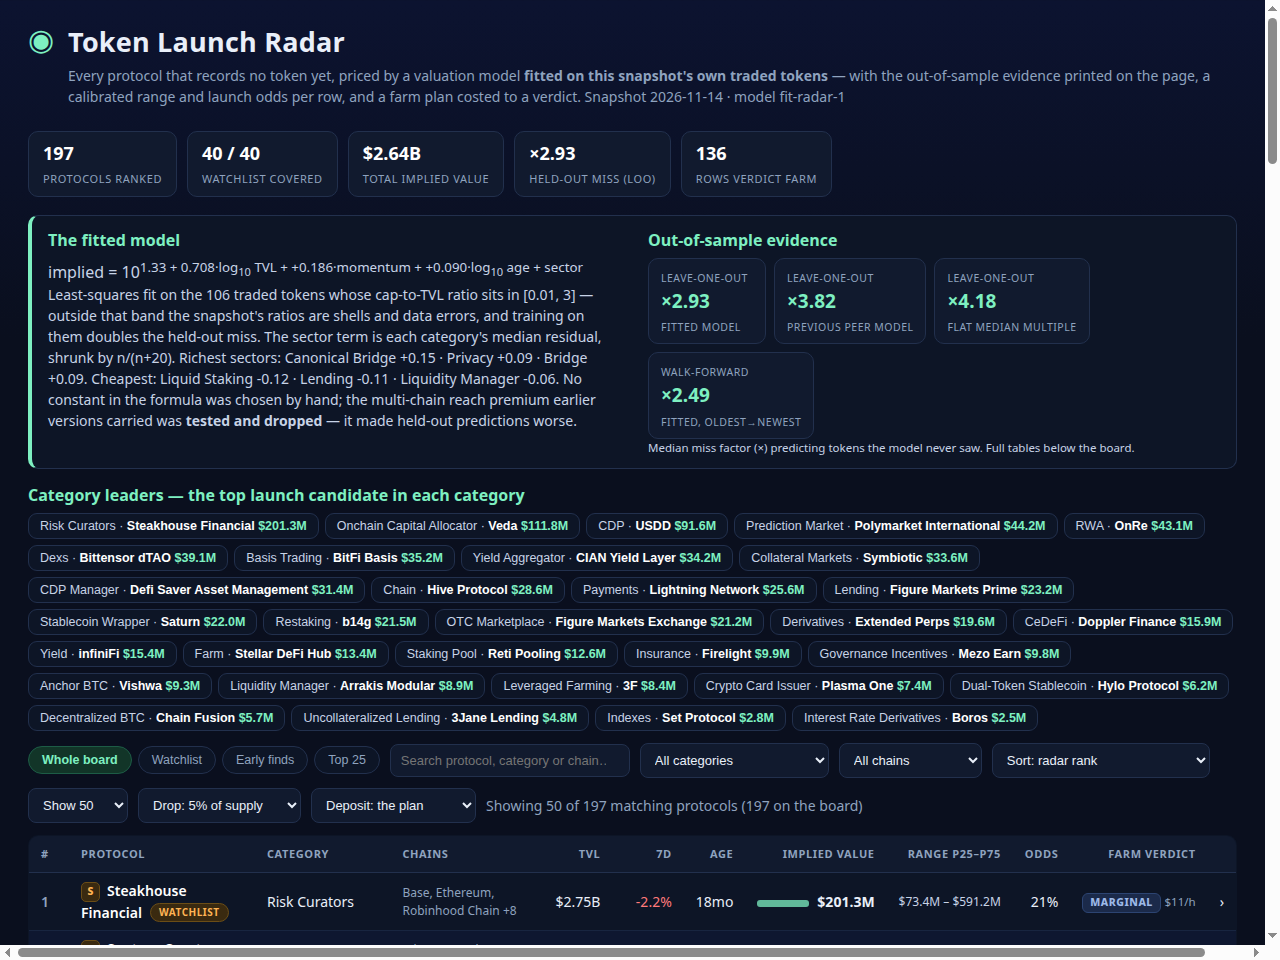
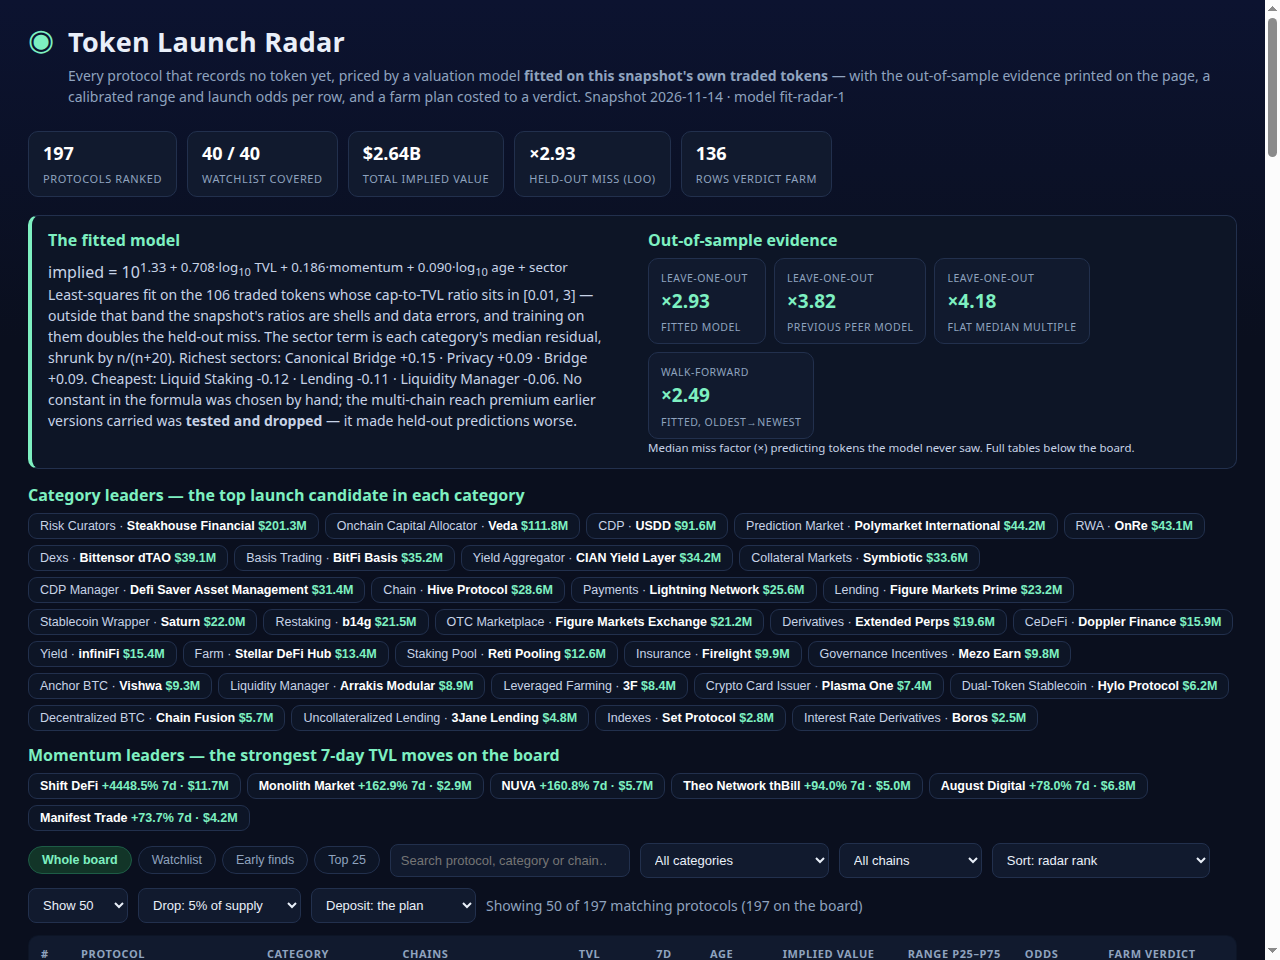
v6: show the fit — LOO scatter + residual histogram, honesty notes, Hermes-critique fixes
- Evidence section draws the leave-one-out predicted-vs-actual scatter
  and residual histogram (new scatter/resid_hist data in FitReport) and
  states the small sample (N=106) and its limits beside them.
- Detail: net-on-deposit % beside the per-hour verdict; 'what moves
  this price' sensitivity from the fitted coefficients; peer multiples
  labelled, wording fixed for categories with few peers; formula no
  longer prints a double plus.
- Farm steps name the plan's total capital where the second surface is
  added, bridging the core amount and the costing box's deposit.
- Momentum leaders strip; evidence screenshot re-rendered taller
  (1280x1440) so tables, charts and ledger share one view.

Changed region(s): [[0.0, 0.75, 1.0, 1.0], [0.2188, 0.25, 0.4375, 0.3125]]

diff --git a/dashboard/app.js b/dashboard/app.js
@@ -68,8 +68,8 @@ $('modelver').textContent = R.model_version;
 $('src').textContent = R.source;
 $('b0').textContent = F.beta[0].toFixed(2);
 $('b1').textContent = F.beta[1].toFixed(3);
-$('b2').textContent = (F.beta[2] >= 0 ? '+' : '') + F.beta[2].toFixed(3);
-$('b3').textContent = (F.beta[3] >= 0 ? '+' : '') + F.beta[3].toFixed(3);
+$('b2').textContent = F.beta[2].toFixed(3);
+$('b3').textContent = F.beta[3].toFixed(3);
 $('trainn').textContent = F.train_n;
 const premFmt = (list) => list.map((x) => esc(x.category) + ' ' + (x.premium >= 0 ? '+' : '') + x.premium.toFixed(2)).join(' · ');
 $('premtop').textContent = premFmt(F.premia_top.slice(0, 3));
@@ -100,6 +100,12 @@ for (const r of rows) {
 $('leaders').innerHTML = [...leaderByCat.values()]
   .sort((a, b) => b.implied_value_usd - a.implied_value_usd)
   .map((r) => '<button class="lchip" data-slug="' + esc(r.slug) + '">' + esc(r.category || '—') + ' · <b>' + esc(r.name) + '</b> <span>' + fmtUsd(r.implied_value_usd) + '</span></button>')
+  .join('');
+$('momleaders').innerHTML = rows
+  .filter((r) => r.change_7d !== null)
+  .sort((a, b) => (b.change_7d ?? 0) - (a.change_7d ?? 0))
+  .slice(0, 6)
+  .map((r) => '<button class="lchip" data-slug="' + esc(r.slug) + '"><b>' + esc(r.name) + '</b> <span>+' + (r.change_7d ?? 0).toFixed(1) + '% 7d · ' + fmtUsd(r.implied_value_usd) + '</span></button>')
   .join('');
 for (const chip of document.querySelectorAll('.lchip')) {
   chip.addEventListener('click', () => { location.hash = 'p=' + chip.getAttribute('data-slug'); });
@@ -191,6 +197,7 @@ function renderDetail(slug) {
   // While a protocol is open, the category-leader strip steps aside: the
   // detail is the content, the strip is browsing chrome.
   $('leaderssec').classList.toggle('hidden', !!r);
+  $('momsec').classList.toggle('hidden', !!r);
   if (!r) { el.classList.add('hidden'); el.innerHTML = ''; return; }
   el.classList.remove('hidden');
   const c = costing(r);
@@ -209,9 +216,13 @@ function renderDetail(slug) {
     '<h3>Fitted breakdown — ' + esc(R.model_version) + '</h3>' +
     '<div class="bar"><span>Curve (size·mom·age)</span><b>10^' + r.model.base_log.toFixed(3) + ' = ' + fmtUsd(Math.pow(10, r.model.base_log)) + '</b></div>' +
     '<div class="bar"><span>Sector premium (' + esc(r.category || 'none') + ')</span><b>×' + Math.pow(10, r.model.sector_premium).toFixed(2) + '</b></div>' +
+    '<h3>What moves this price — the fitted coefficients at work</h3>' +
+    '<div class="bar"><span>If TVL grows 50%</span><b>' + fmtUsd(r.implied_value_usd * Math.pow(1.5, F.beta[1])) + '</b></div>' +
+    '<div class="bar"><span>If 7d momentum gains 10 pts</span><b>' + fmtUsd(r.implied_value_usd * Math.pow(10, F.beta[2] * 0.1)) + '</b></div>' +
+    '<div class="bar"><span>One year from now, all else equal</span><b>' + fmtUsd(r.implied_value_usd * Math.pow((r.age_days + 395) / (r.age_days + 30), F.beta[3])) + '</b></div>' +
     '<h3>The sector\'s trading record</h3>' +
     (r.model.peer_examples.length > 0
-      ? '<p class="peerlist">' + r.model.peer_examples.map((x) => esc(x.name) + ' <b>' + x.fdv_tvl.toFixed(2) + 'x</b>').join(' · ') + '<br><span style="color:var(--muted)">The five largest of ' + r.model.peer_count + ' trading ' + esc(r.category || '') + ' peers by market cap. The fit learned from all of them; the premium above is the category\'s median residual after the curve.</span></p>'
+      ? '<p class="peerlist">Peer cap/TVL multiples: ' + r.model.peer_examples.map((x) => esc(x.name) + ' <b>' + x.fdv_tvl.toFixed(2) + 'x</b>').join(' · ') + '<br><span style="color:var(--muted)">' + (r.model.peer_count <= 5 ? 'All ' + r.model.peer_count + ' trading ' + esc(r.category || '') + ' peers by market cap' : 'The five largest of ' + r.model.peer_count + ' trading ' + esc(r.category || '') + ' peers by market cap') + '. The fit learned from all of them; the premium above is the category\'s median residual after the curve.</span></p>'
       : '<p class="peerlist">No protocol in this category trades yet, so the curve prices this row unadjusted — the widest kind of uncertainty, and the range above says so.</p>') +
     '<h3>Why this rank</h3><p class="why">' + whyText(r) + '</p></div>' +
     '<div class="right"><h3>How to farm ' + esc(r.name) + ' — the full plan</h3>' +
@@ -219,6 +230,7 @@ function renderDetail(slug) {
     '<span class="costnet">expected net <b>' + (c.net < 0 ? '−$' + Math.abs(c.net).toFixed(0) : '$' + c.net.toFixed(0)) + '</b> · <b>' + (c.nph < 0 ? '−$' + Math.abs(c.nph).toFixed(0) : '$' + c.nph.toFixed(0)) + '/hour</b></span></div>' +
     '<div class="costgrid">' +
     '<div class="stat"><b>' + fmtUsd(c.deposit) + '</b><span>deposit</span></div>' +
+    '<div class="stat"><b>' + (c.deposit > 0 ? (c.net / c.deposit * 100).toFixed(1) + '%' : '—') + '</b><span>net on deposit</span></div>' +
     '<div class="stat"><b>' + fmtUsd(fc.fees_usd) + '</b><span>fees (est.)</span></div>' +
     '<div class="stat"><b>' + fc.hours + ' h</b><span>of work</span></div>' +
     '<div class="stat"><b>' + fc.days + ' d</b><span>start to exit</span></div>' +
@@ -243,6 +255,43 @@ $('evterms').innerHTML = F.terms.map((t) =>
   '<tr><td>' + esc(t.term) + '<br><span class="fineprint">' + esc(t.detail) + '</span></td>' +
   '<td class="num">' + miss(t.loo_with) + '</td><td class="num">' + miss(t.loo_without) + '</td>' +
   '<td>' + esc(t.verdict) + '</td></tr>').join('');
+$('smalln').textContent = F.train_n;
+(function charts() {
+  const pts = F.scatter || [];
+  if (pts.length) {
+    const W = 320, H = 240, lo = 5, hi = 10.5;
+    const X = (v) => ((v - lo) / (hi - lo)) * W;
+    const Y = (v) => H - ((v - lo) / (hi - lo)) * H;
+    let s = '<svg viewBox="0 0 ' + W + ' ' + H + '" role="img" aria-label="Leave-one-out predicted versus actual market cap">';
+    s += '<line x1="' + X(lo) + '" y1="' + Y(lo) + '" x2="' + X(hi) + '" y2="' + Y(hi) + '" style="stroke:var(--muted)" stroke-width="1" stroke-dasharray="4 3"/>';
+    for (const g of [6, 8, 10]) {
+      s += '<line x1="' + X(g) + '" y1="0" x2="' + X(g) + '" y2="' + H + '" style="stroke:var(--border)" stroke-width="0.5"/>';
+      s += '<line x1="0" y1="' + Y(g) + '" x2="' + W + '" y2="' + Y(g) + '" style="stroke:var(--border)" stroke-width="0.5"/>';
+      s += '<text x="' + (X(g) + 3) + '" y="' + (H - 4) + '" style="fill:var(--muted)" font-size="9">' + (g === 6 ? '$1M' : g === 8 ? '$100M' : '$10B') + '</text>';
+    }
+    for (const p of pts) s += '<circle cx="' + X(p.log_actual).toFixed(1) + '" cy="' + Y(p.log_pred).toFixed(1) + '" r="2.4" style="fill:var(--accent)" opacity="0.72"/>';
+    s += '</svg>';
+    $('scatter').innerHTML = s;
+  }
+  const hist = F.resid_hist || [];
+  if (hist.length) {
+    const W = 320, H = 240, bw = W / hist.length;
+    const max = Math.max(...hist.map((b) => b.n), 1);
+    let s = '<svg viewBox="0 0 ' + W + ' ' + H + '" role="img" aria-label="Histogram of leave-one-out residuals">';
+    hist.forEach((b, i) => {
+      const h = (b.n / max) * (H - 18);
+      const zero = b.lo >= -0.001 && b.lo < 0.25;
+      s += '<rect x="' + (i * bw + 1).toFixed(1) + '" y="' + (H - 18 - h).toFixed(1) + '" width="' + (bw - 2).toFixed(1) + '" height="' + h.toFixed(1) + '" style="fill:' + (zero ? 'var(--accent)' : 'var(--muted)') + '" opacity="' + (zero ? '0.95' : '0.55') + '"/>';
+    });
+    const zx = ((0 - hist[0].lo) / 0.25) * bw;
+    s += '<line x1="' + zx + '" y1="0" x2="' + zx + '" y2="' + (H - 18) + '" style="stroke:var(--text)" stroke-width="1"/>';
+    s += '<text x="2" y="' + H + '" style="fill:var(--muted)" font-size="9">−1.5 (market paid a tenth)</text>';
+    s += '<text x="' + (W - 118) + '" y="' + H + '" style="fill:var(--muted)" font-size="9">+1.5 (ten times over)</text>';
+    s += '</svg>';
+    $('residhist').innerHTML = s;
+  }
+})();
+
 $('evcalib').innerHTML = [
   ['P25–P75 range coverage', Math.round(F.calibration.band50 * 100) + '% of held-out caps inside', 'stated 50%'],
   ['P10–P90 range coverage', Math.round(F.calibration.band80 * 100) + '% of held-out caps inside', 'stated 80%'],

diff --git a/lib/fit.ts b/lib/fit.ts
@@ -191,6 +191,10 @@ export interface FitReport {
   bands: { p25: number; p75: number; p10: number; p90: number };
   calibration: { band50: number; band80: number };
   odds: { base_rate: number; brier_model: number; brier_base: number };
+  /** Leave-one-out predicted vs actual (log10 market cap) per traded token. */
+  scatter: { log_actual: number; log_pred: number }[];
+  /** Leave-one-out residual histogram, bins of 0.25 in log10 space. */
+  resid_hist: { lo: number; n: number }[];
 }
 
 /** Category token-record rates, shrunk toward the base rate: the odds model. */
@@ -225,13 +229,20 @@ export function validateModel(snapshot: Snapshot): FitReport {
   const looPeerMisses: number[] = [];
   const looFlatMisses: number[] = [];
   const looResid: number[] = [];
+  const looPairs: { log_actual: number; log_pred: number }[] = [];
   for (let i = 0; i < train.length; i++) {
     const rest = [...train.slice(0, i), ...train.slice(i + 1)];
     looPeerMisses.push(missFactor(peerModelPredict(train[i]!, rest, asOf), train[i]!.mcap_usd!));
     const g = median(rest.map((q) => q.mcap_usd! / q.tvl_usd));
     looFlatMisses.push(missFactor(g * train[i]!.tvl_usd, train[i]!.mcap_usd!));
     const m = fitModel(rest, asOf);
-    looResid.push(Math.log10(train[i]!.mcap_usd!) - predict(m, train[i]!, asOf).log);
+    const predLog = predict(m, train[i]!, asOf).log;
+    looResid.push(Math.log10(train[i]!.mcap_usd!) - predLog);
+    looPairs.push({ log_actual: Math.round(Math.log10(train[i]!.mcap_usd!) * 1000) / 1000, log_pred: Math.round(predLog * 1000) / 1000 });
+  }
+  const residHist: { lo: number; n: number }[] = [];
+  for (let b = -1.5; b < 1.5; b += 0.25) {
+    residHist.push({ lo: Math.round(b * 100) / 100, n: looResid.filter((r) => r >= b && r < b + 0.25).length });
   }
 
   // Walk-forward: fit the oldest 60% by listing date, predict the newest 40%.
@@ -301,6 +312,8 @@ export function validateModel(snapshot: Snapshot): FitReport {
     bands,
     calibration,
     odds: { base_rate: base, brier_model: brierModel / all.length, brier_base: brierBase / all.length },
+    scatter: looPairs,
+    resid_hist: residHist,
   };
 }
 

diff --git a/dashboard/index.html b/dashboard/index.html
@@ -38,6 +38,11 @@
   <div id="leaders" class="leaderchips"></div>
 </section>
 
+<section class="leaders" id="momsec">
+  <h2>Momentum leaders — the strongest 7-day TVL moves on the board</h2>
+  <div id="momleaders" class="leaderchips"></div>
+</section>
+
 <section id="detail" class="detail hidden"></section>
 
 <section class="controls">
@@ -111,6 +116,22 @@
       <h3>Calibration &amp; odds</h3>
       <table class="evtable"><tbody id="evcalib"></tbody></table>
       <p class="fineprint">Token odds are each category's own token-launch record, shrunk toward the snapshot base rate, scored out-of-fold. A Brier score below the base rate's means the odds know something the base rate doesn't.</p>
+    </div>
+  </div>
+  <div class="evgrid charts">
+    <div>
+      <h3>The fit, shown — predicted vs actual, leave-one-out</h3>
+      <div id="scatter"></div>
+      <p class="fineprint">One dot per traded token: the model's leave-one-out prediction against the cap the market actually gave it. On the line is a perfect call; the spread around it is the ×2.93 median miss, drawn instead of just claimed.</p>
+    </div>
+    <div>
+      <h3>Residuals — where the fit misses, and by how much</h3>
+      <div id="residhist"></div>
+      <p class="fineprint">Leave-one-out residuals in log10 space: 0 is a perfect call, +1 means the market paid ten times the prediction, −1 a tenth. The per-row ranges on the board are read off this distribution's own quantiles.</p>
+    </div>
+    <div>
+      <h3>Read this before trusting any number here</h3>
+      <p class="fineprint">The fit learns from <b id="smalln">—</b> traded tokens — every token in the snapshot whose cap-to-TVL ratio sits in [0.01, 3]. That is a small sample, and it is why every range on this page is wide and why the sector premia are shrunk hard toward zero. The integrity strip below proves the board matches the program's output; it cannot prove the model right. The scatter is the honesty test, printed either way.</p>
     </div>
   </div>
 </section>

diff --git a/lib/farm.ts b/lib/farm.ts
@@ -326,7 +326,7 @@ export function farmPlan(p: SnapshotProtocol, age: number | null, ctx?: PlanCont
     });
   } else {
     steps.push({
-      text: `Add a second, different action on ${p.name}: a second market, pool or vault beside the first, with $${Math.round(capital / 2)} more, so the wallet shows varied use rather than one deposit`,
+      text: `Add a second, different action on ${p.name}: a second market, pool or vault beside the first, with $${Math.round(capital / 2)} more — $${capital} core plus $${Math.round(capital / 2)} here is $${planCapitalFor(p)} of plan capital in total, the deposit the costing box prices — so the wallet shows varied use rather than one deposit`,
       cost: `$${Math.round(capital / 2)} of capital plus ${gas}`,
       time: '15 minutes',
     });

diff --git a/dashboard/app.css b/dashboard/app.css
@@ -123,3 +123,4 @@ footer{padding:10px 28px 26px;color:var(--muted);font-size:12px}
 .costgrid .stat{min-width:0;padding:6px 11px}
 .costgrid .stat b{font-size:15px}
 body.evidence-only .top,body.evidence-only .method,body.evidence-only .leaders,body.evidence-only .controls,body.evidence-only main,body.evidence-only .live,body.evidence-only footer{display:none}
+.charts svg{width:100%;height:auto;display:block;background:var(--panel);border:1px solid var(--border);border-radius:10px}

diff --git a/README.md b/README.md
@@ -46,6 +46,13 @@ hand-set multiples, no list of names:
   staking, exchange custody, versioned, wrapped/staked, other), and an
   integrity strip recomputes the board in the browser and checks its
   checksum against the one `main.ts` wrote.
+- **The fit, shown** — the evidence section draws the leave-one-out
+  predicted-vs-actual scatter and the residual histogram from the fit's own
+  held-out predictions, and states the sample's size (106 traded tokens)
+  and its limits next to them. Detail panels carry a net-on-deposit figure
+  beside the per-hour verdict and a "what moves this price" readout from
+  the fitted coefficients; a momentum-leaders strip surfaces the strongest
+  7-day TVL moves the momentum term is pricing.
 - **Four views ship as screenshots** — the board, one protocol's detail, the
   board sorted by farm net/hour (the verdict view), and a dedicated evidence
   view (`#view=evidence`) that puts the full out-of-sample tables, the
